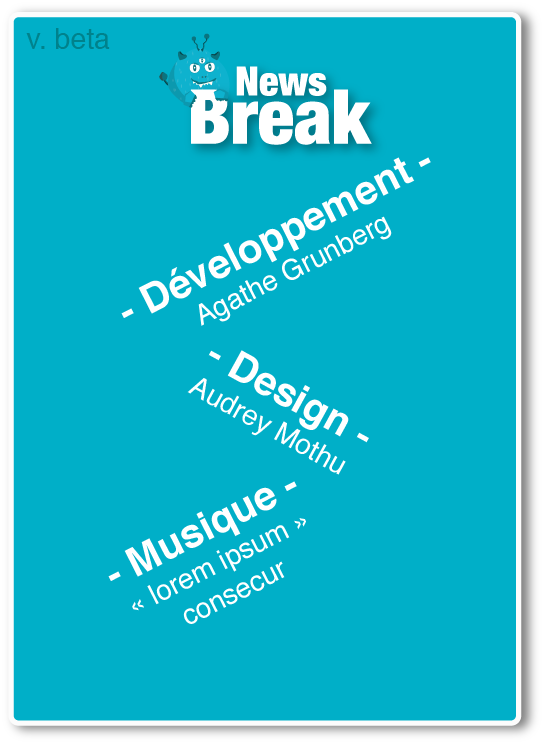
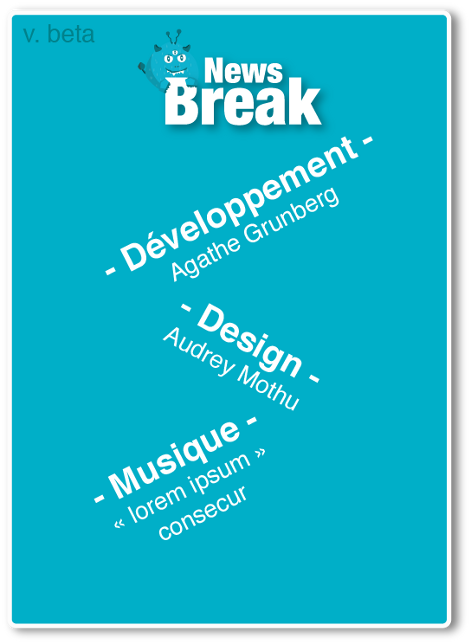
update pop up credit

diff --git a/css/indexStyle.css b/css/indexStyle.css
@@ -460,7 +460,7 @@ video#bgvid {
 #mail{
   height: 44px;
   width: 44px;
-  margin-top: 430px;
+  margin-top: 370px;
   position: fixed;
   margin-left: 50px;
 }
@@ -468,8 +468,8 @@ video#bgvid {
   height: 44px;
   width: 44px;
   position: fixed;
-  margin-top: 310px;
-  margin-left: 430px; 
+  margin-top: 300px;
+  margin-left: 355px; 
 }
 #facebook{
   height: 44px;
@@ -482,7 +482,7 @@ video#bgvid {
     height: 63px;
     width: 61px;
     position: fixed;
-    margin-top: 645px;
+    margin-top: 550px;
     margin-left: 240px;
 }
 

diff --git a/js/popUpScript.js b/js/popUpScript.js
@@ -9,7 +9,7 @@ $(function () {
 		
 		//Apply Margin to Popup
 		$('#popup_credit').css({ 
-			'margin-top' : -popMargTop,
+			'margin-top' : -popMargTop+40,
 			'margin-left' : -popMargLeft
 		});
 		
